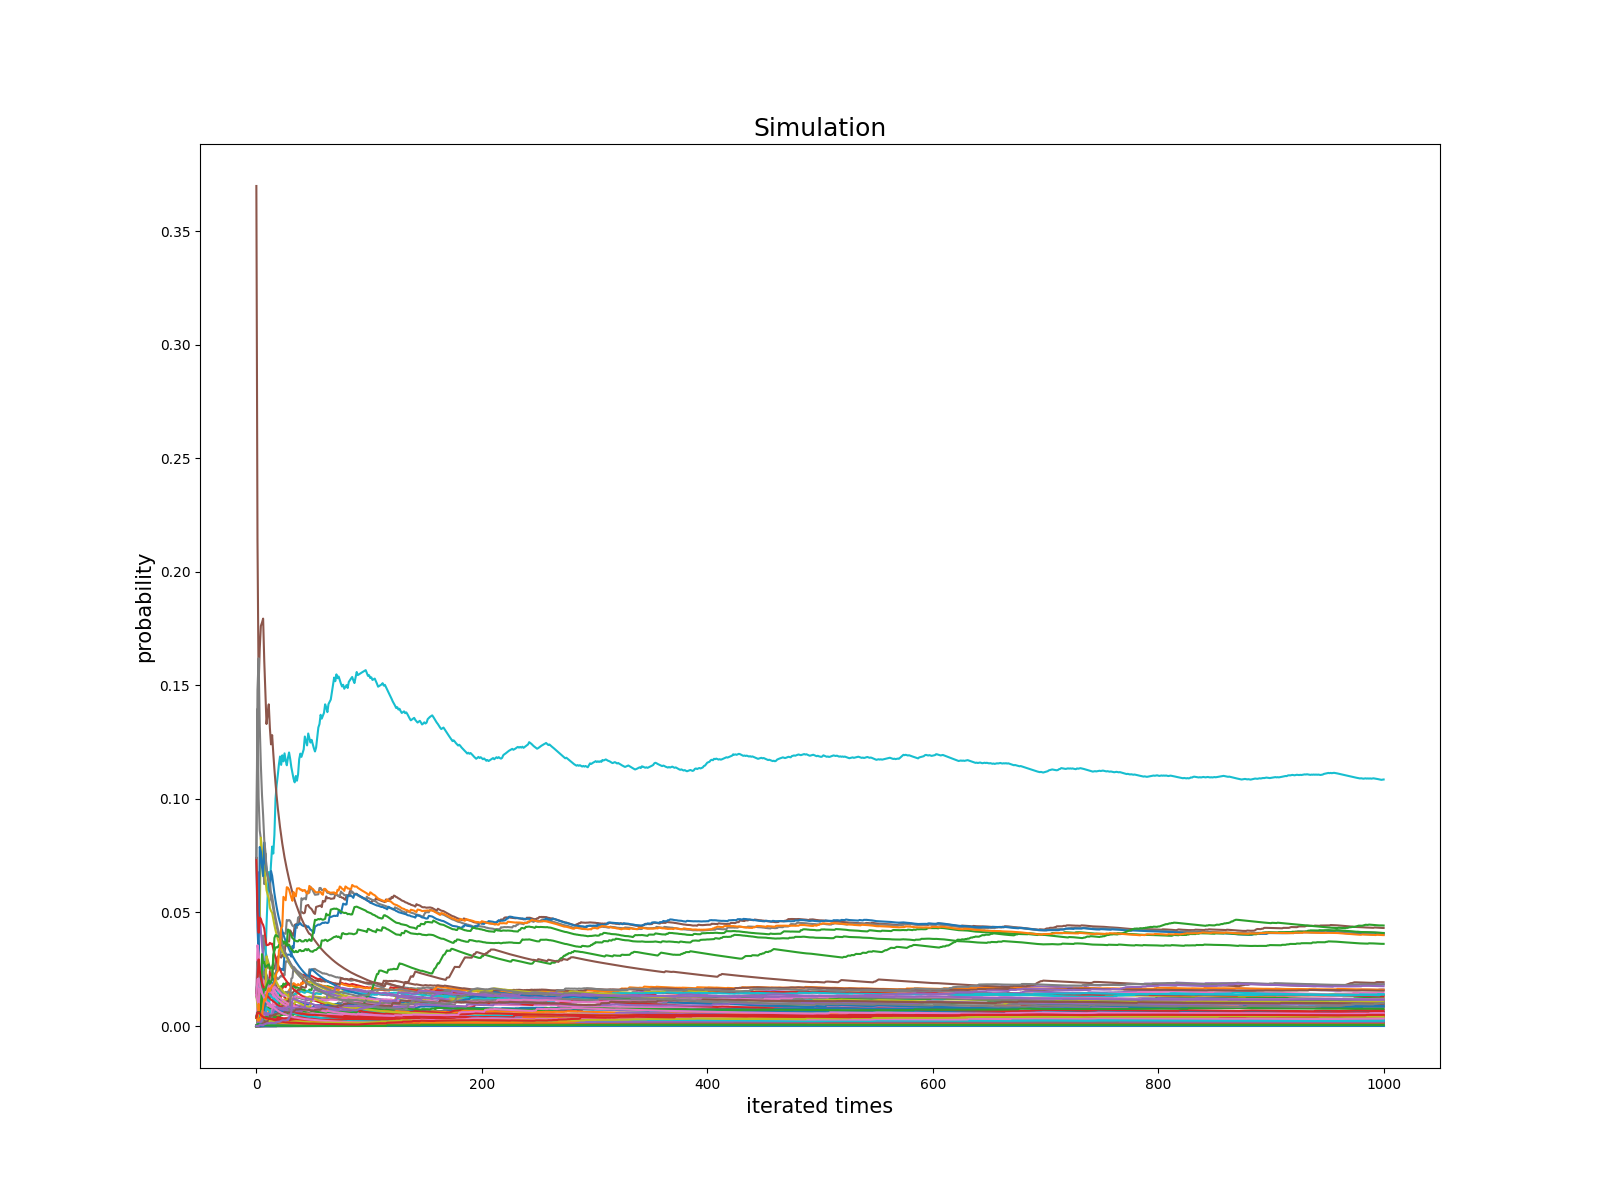
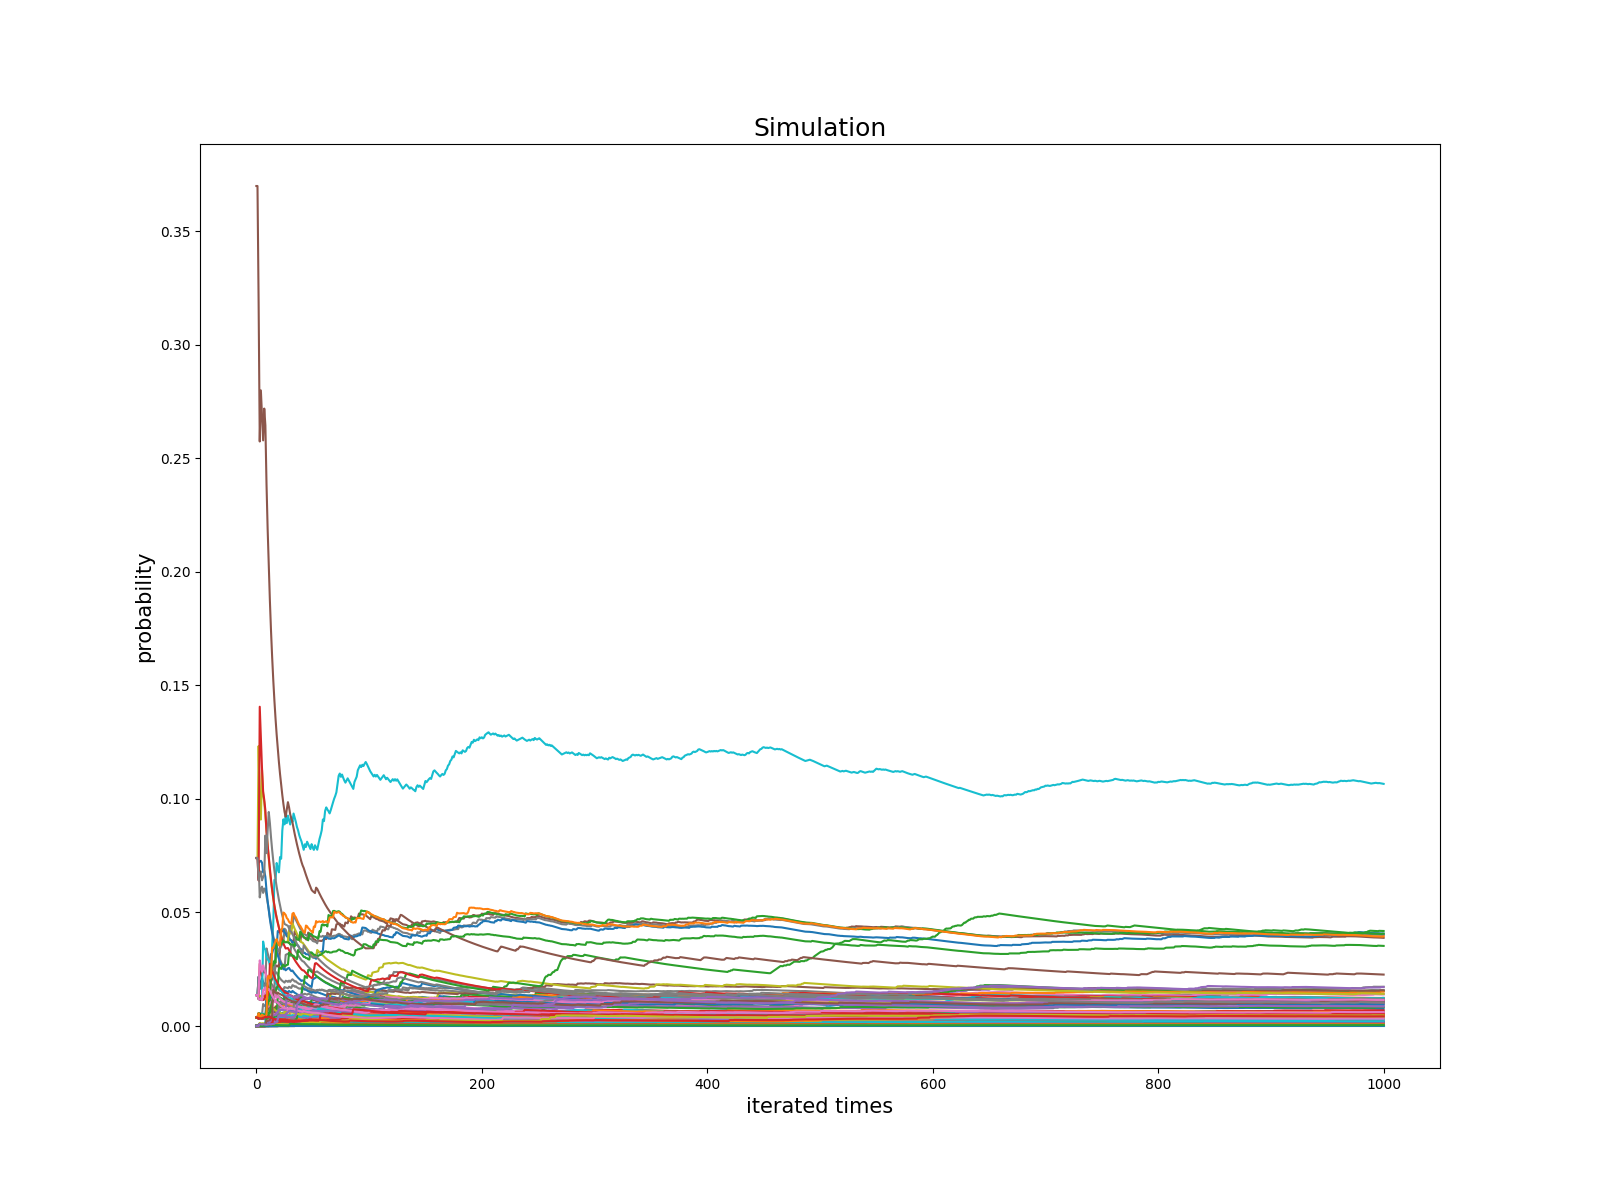
update

diff --git a/cdr_trajectories/example.py b/cdr_trajectories/example.py
@@ -23,7 +23,7 @@ from cdr_trajectories.udfs import prepare_for_plot, plot_sparse, plot_dense, plo
 
 
 
-mpn_file = 'data/mpn/mpn2.bz2'
+mpn_file = 'data/mpn/*'
 voronoi_file = 'data/voronoi/*'
 
 firstRing_file = 'data/ring/voronoi20191213uppsla1st.txt'
